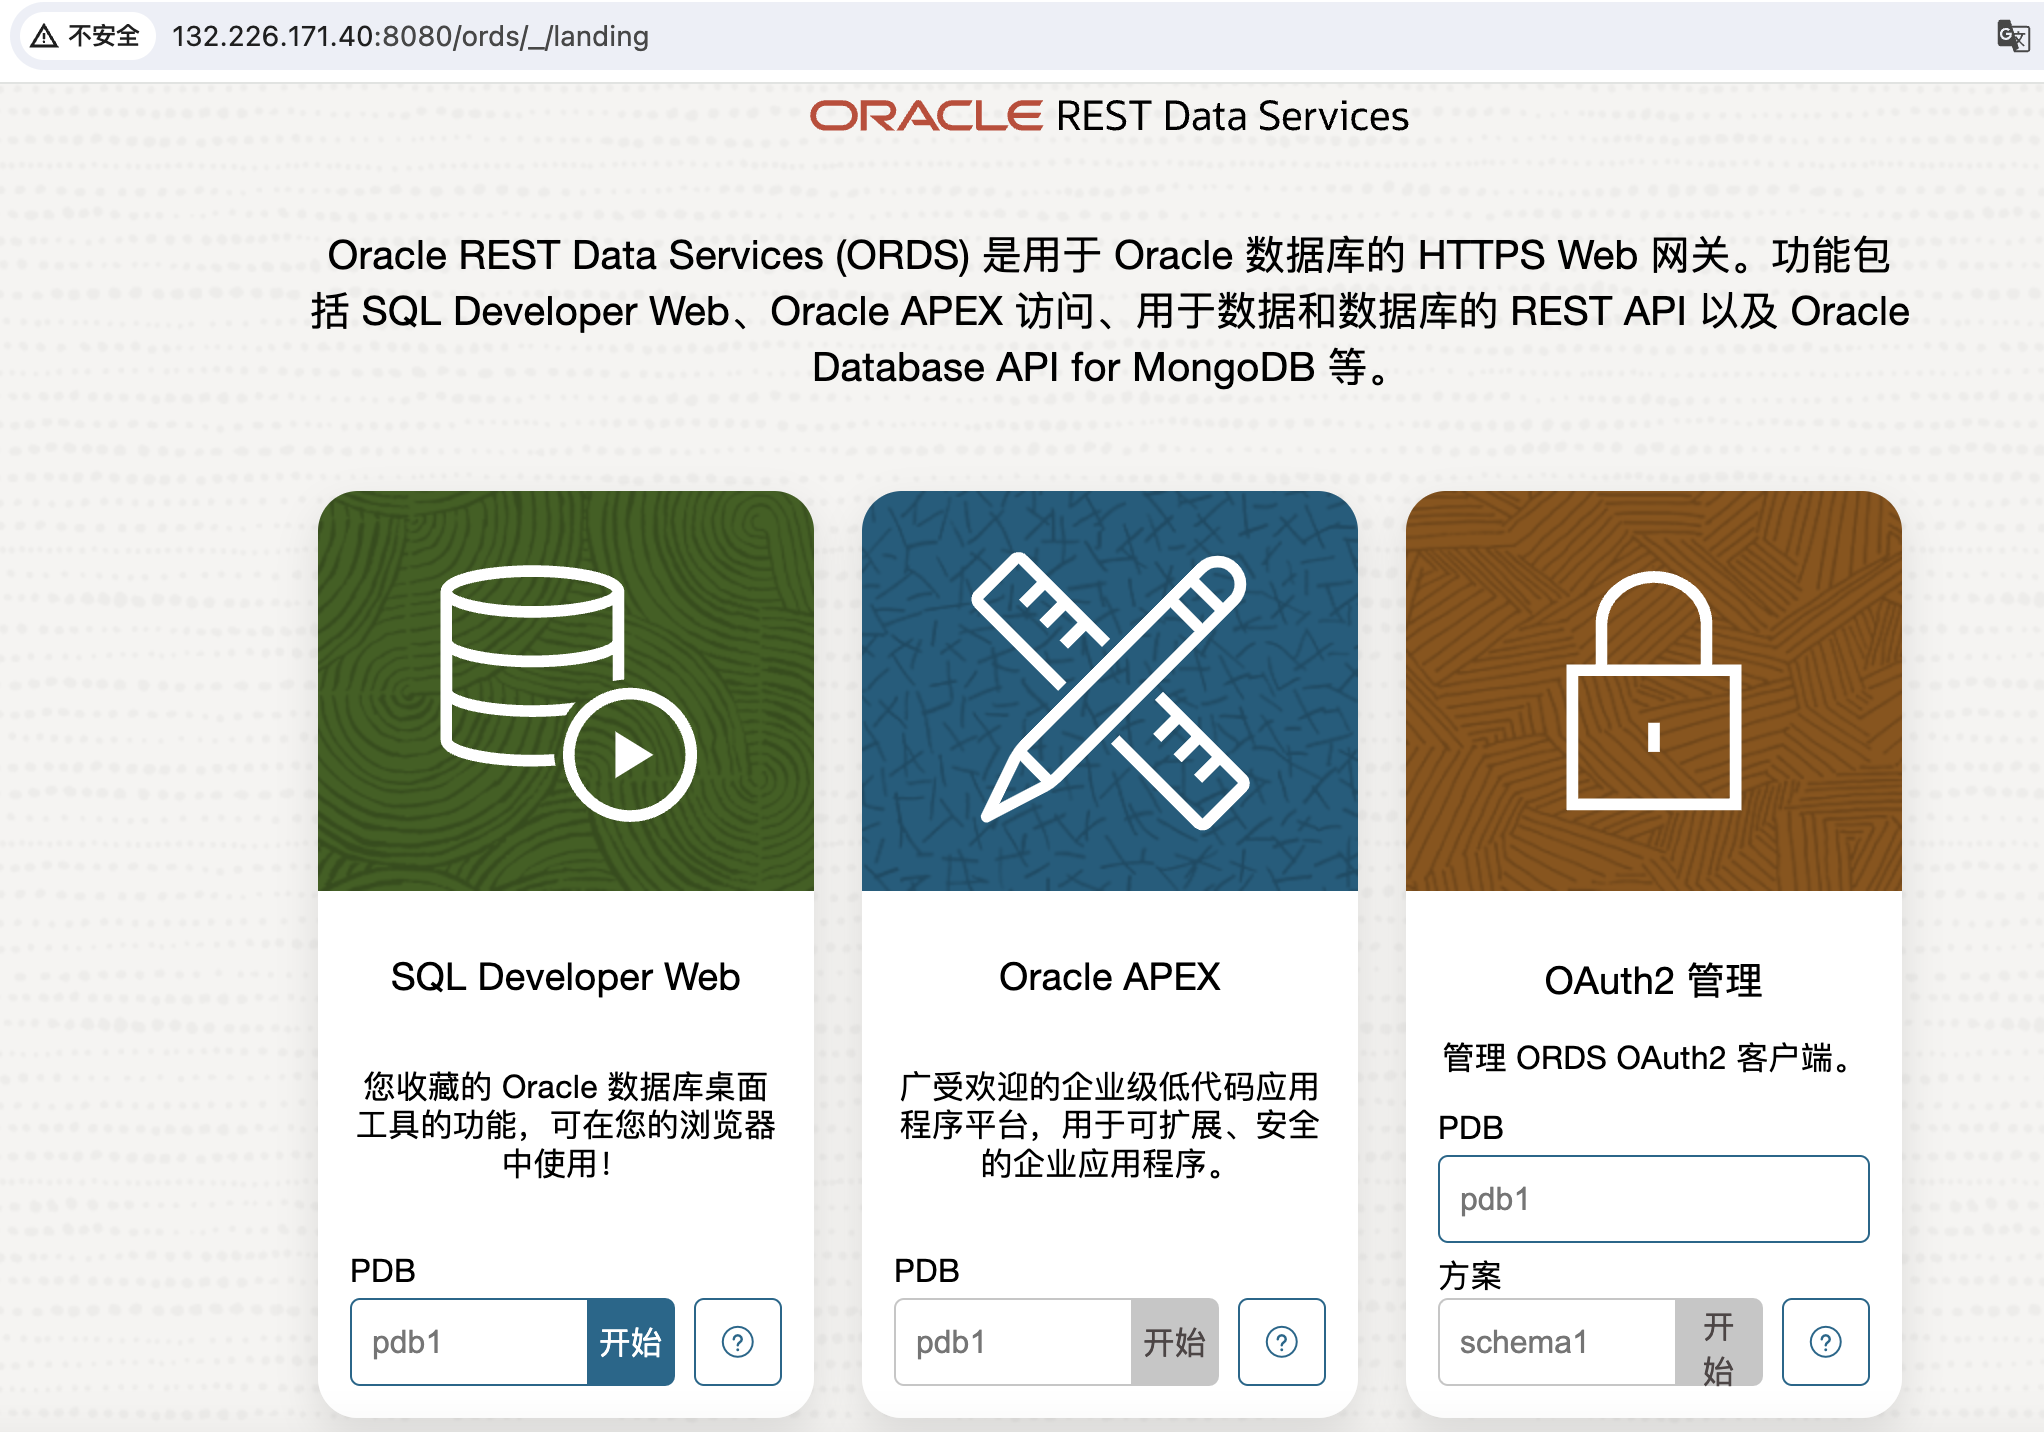
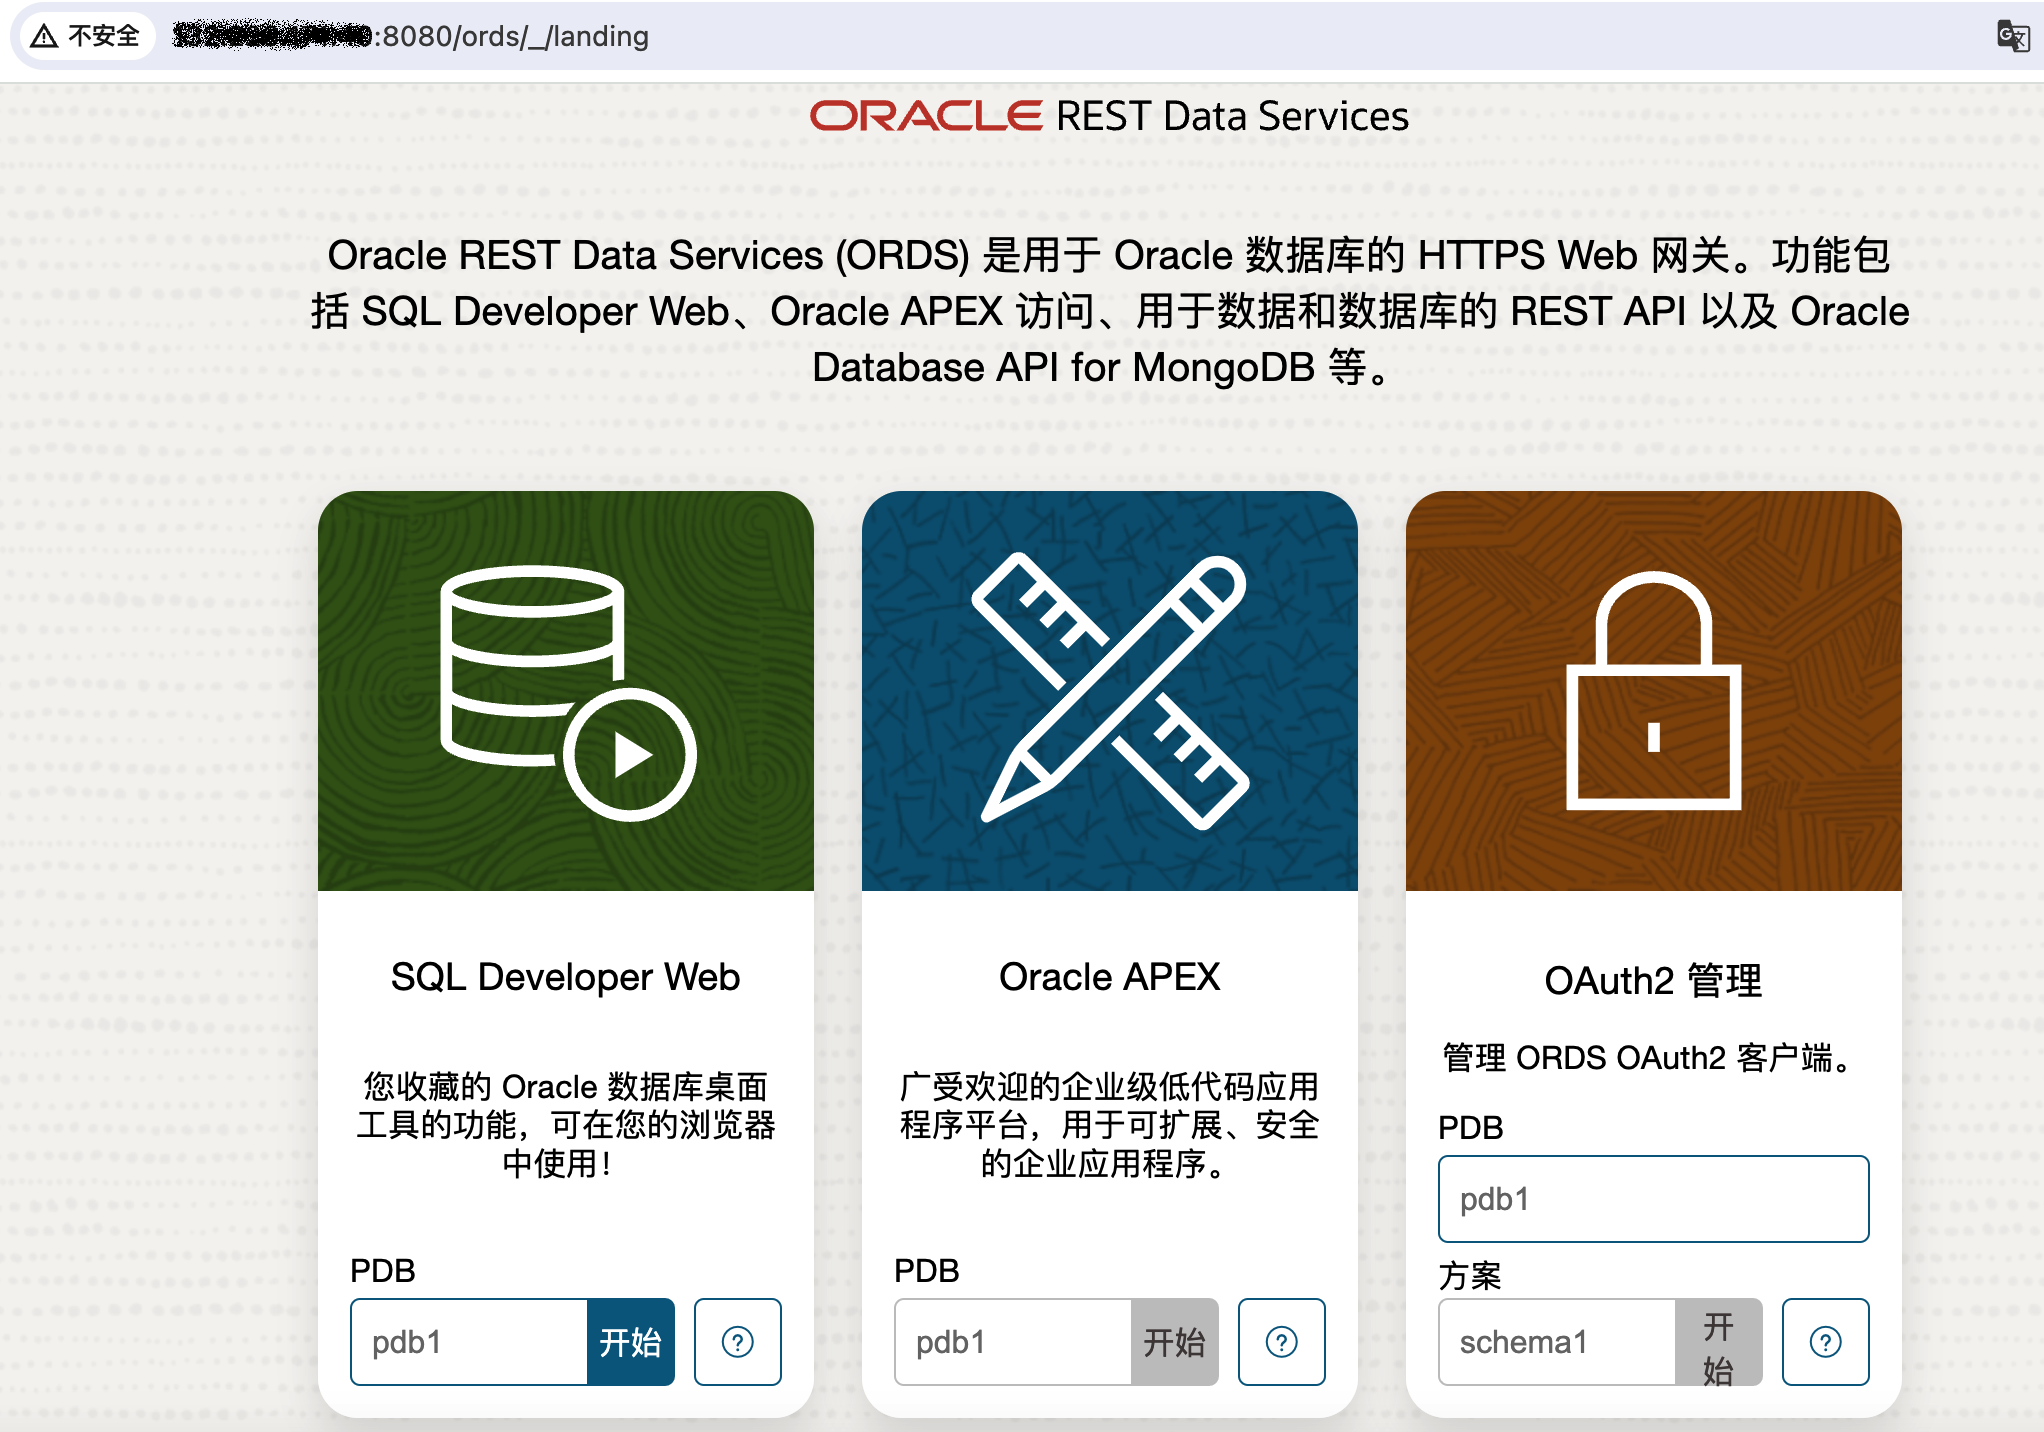
modified

diff --git a/kbot-install-guide/Kbot2.0-install-guide.md b/kbot-install-guide/Kbot2.0-install-guide.md
@@ -386,7 +386,7 @@ export PATH=$ORACLE_HOME/bin:$PATH
 21.   浏览器访问ords主页
 
       ```
-      http://132.226.171.40:8080/ords
+      http://<ip_address>:8080/ords
       ```
 
       ![image-20240605115344467](images/image-20240605115344467.png)
@@ -603,7 +603,7 @@ export PATH=$ORACLE_HOME/bin:$PATH
       
 
 11.    启动以后，不报错，且如果正常可以打开接口swagger测试页：
-       ```http://132.226.171.40:8899/docs```
+       ```http://<ip_address>:8899/docs```
 
        或者用curl调接口测试下是否能正常返回：
 
@@ -624,7 +624,7 @@ export PATH=$ORACLE_HOME/bin:$PATH
 1.   在浏览器中输入下列地址，进入APEX页面
 
      ```
-     http://132.226.171.40:8080/ords/r/apex/workspace-sign-in/oracle-apex-sign-in
+     http://<ip_address>:8080/ords/r/apex/workspace-sign-in/oracle-apex-sign-in
      ```
 
      ![image-20240606135009805](images/image-20240606135009805.png)
@@ -701,12 +701,66 @@ export PATH=$ORACLE_HOME/bin:$PATH
 
       ```
       -- ORDS安装在CDB
-      http://132.226.171.40:8080/ords/bj_sales/r/kbot-ui/km-chat109
+      http://<ip_address>:8080/ords/bj_sales/r/kbot-ui/km-chat109
       
       --或者ORDS安装在PDB
-      http://192.168.106.204:8080/ords/r/kbot-ui/km-chat109
+      http://<ip_address>:8080/ords/r/kbot-ui/km-chat109
       ```
 
       
 
 20.   sdf
+
+
+
+## Task 5: 使用知识库
+
+1.   首先，我们选择主菜单->知识库管理，点击创建知识库。
+
+     ![image-20240620125652319](images/image-20240620125652319.png)
+
+2.   输入知识库名称、知识库描述，嵌入模型和向量数据库类型可以用缺省值。点击创建知识库。
+
+     ![image-20240620125830007](images/image-20240620125830007.png)
+
+3.   在知识库页面选择修改图标
+
+     ![image-20240620130024262](images/image-20240620130024262.png)
+
+4.   点击上传文件
+
+     ![image-20240620130142422](images/image-20240620130142422.png)
+
+5.   可以一次选择一个或多个文件，点击保存。
+
+     ![image-20240620130326245](images/image-20240620130326245.png)
+
+6.   应用会自动上传文件，并将文件分片和向量化。点击已存在的文件。
+
+     ![image-20240620130505380](images/image-20240620130505380.png)
+
+7.   可以查看已成功上传处理的文件数量，打开是否发布开关
+
+     ![image-20240620130649264](images/image-20240620130649264.png)
+
+8.   点击保存
+
+     ![image-20240620130827213](images/image-20240620130827213.png)
+
+9.   点击主菜单里的主页
+
+     ![image-20240620130944060](images/image-20240620130944060.png)
+
+10.   点击刚创建好的知识库图标
+
+      ![image-20240620131045253](images/image-20240620131045253.png)
+
+11.   选择大模型，在更多参数里先将重排分模型disable
+
+      ![image-20240620131204383](images/image-20240620131204383.png)
+
+12.   现在就可以使用知识库问答了
+
+      ![image-20240620131657841](images/image-20240620131657841.png)
+
+13.   sdf
